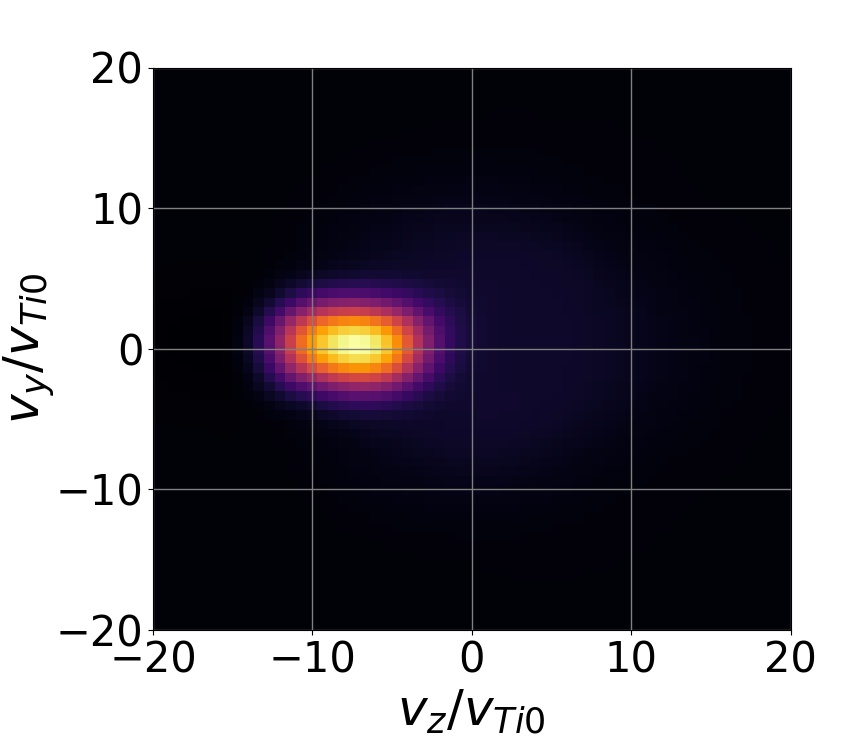
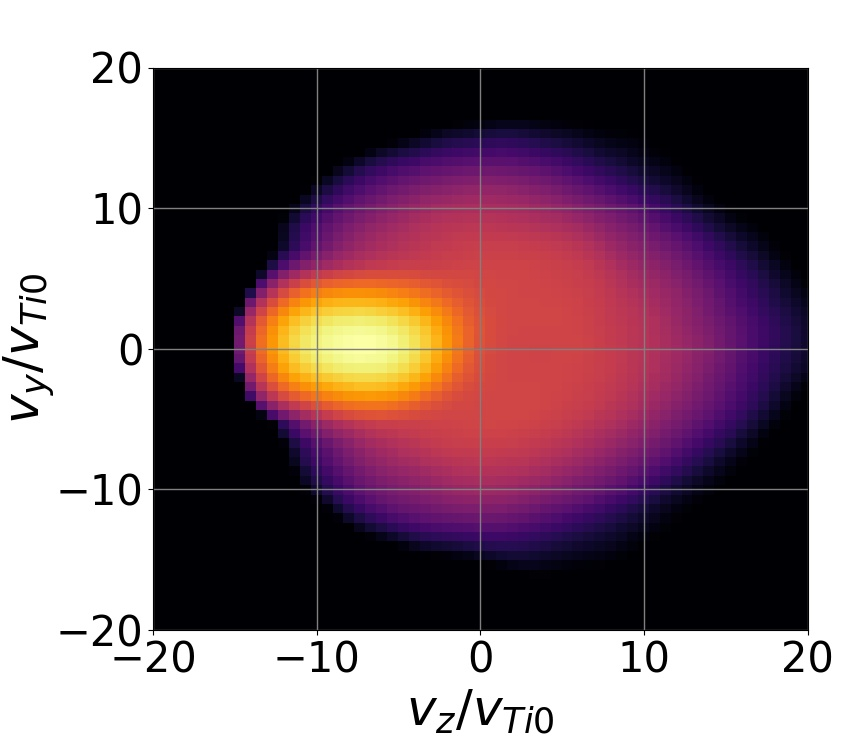
update

diff --git a/Diagnostics/local/2D_structure.py b/Diagnostics/local/2D_structure.py
@@ -10,6 +10,7 @@ from scipy.interpolate import interp1d
 from scipy.optimize import curve_fit
 from scipy.special import gamma
 import matplotlib.ticker as ticker
+import matplotlib.colors as colors
 matplotlib.use('TkAgg')
 
 ElcGridPath = './massRatio/mass100/E5_H2/dist_function_save/elc_velocities.npz'
@@ -77,11 +78,14 @@ def plot_2d_ion_distribution(fName, GridFile):
     vz_plot, vy_plot = np.meshgrid(velocities_z,velocities_y,indexing='ij')
     
     fig = plt.figure(figsize=(8.5,7.5),facecolor='w', edgecolor='k')
-    ax      = fig.add_axes([0.1, 0.16, 0.75, 0.75])
+    ax      = fig.add_axes([0.18, 0.16, 0.77, 0.75])
 
     #df[df<100] = 1.0
+    thresh = df.max()/500
+    df[df<thresh] = thresh
 
-    ax.pcolormesh(vz_plot/(0.02/np.sqrt(50*100)), vy_plot/(0.02/np.sqrt(50*100)), df,cmap='inferno')
+    ax.pcolormesh(vz_plot/(0.02/np.sqrt(50*100)), vy_plot/(0.02/np.sqrt(50*100)), df,cmap='inferno'
+                  ,norm=colors.LogNorm(vmin=thresh, vmax=df.max()))
     ax.set_xlabel(r'$v_z/v_{Ti0}$', fontsize=36)
     ax.set_ylabel(r'$v_y/v_{Ti0}$', fontsize=36, labelpad=-1)
     ax.set_xlim(-20,20)
@@ -159,18 +163,18 @@ def plot_phase_space_ion(fName,GridFile):
 def plot_phi(fName):
     phi = np.loadtxt(fName)
 
-    fig      = plt.figure(figsize=(10.5,7.5),facecolor='w', edgecolor='k')
-    ax      = fig.add_axes([0.16, 0.16, 0.75, 0.75])
+    fig      = plt.figure(figsize=(9.5,7.5),facecolor='w', edgecolor='k')
+    ax      = fig.add_axes([0.13, 0.16, 0.72, 0.75])
 
-    ax.set_xlabel(r'$z/\lambda_{De0}$',fontsize=36)
-    ax.set_ylabel(r'$y/\lambda_{De0}$',fontsize=36)
+    ax.set_xlabel(r'$z/\lambda_{De}$',fontsize=36)
+    ax.set_ylabel(r'$y/\lambda_{De}$',fontsize=36)
     ax.tick_params(labelsize = 32)
     #ax.grid()
     #ax.contourf(ZZ, YY, phi, 30,  zdir='z', cmap=matplotlib.cm.coolwarm)
     pos = ax.contourf(ZZ*50, YY*50, phi/0.0004, 30,  zdir='z', cmap='inferno')
     cbar = fig.colorbar(pos,ax=ax)
     cbar.set_label(r"$e\phi/T_{e0}$",fontsize=32)
-    cbar.ax.tick_params(labelsize=22)
+    cbar.ax.tick_params(labelsize=30)
     plt.show()
     #plt.savefig(r'./paper_figures/phi.jpg', bbox_inches='tight')
     plt.clf()
@@ -210,7 +214,7 @@ def plot_E(fName):
 if __name__ == '__main__':
     #plot_phase_space('./massRatio/mass100/E5_H2/dist_function/1000.0_elc_phase.txt', ElcGridPath)
 
-    #plot_phi('./massRatio/mass100/E5_H2/field/M100_E5_field_0100.txt')
+    #plot_phi('./massRatio/mass100/E5_H2/field/M100_E5_field_0180.txt')
     #plot_phase_space('./massRatio/mass100/E5_H2/dist_function/1800.0_elc_phase.txt', ElcGridPath)
     #plot_phase_space_ion('./massRatio/mass100/E5_H2/dist_function/1800.0_ion_phase.txt', IonGridPath)
     #plot_2d_elc_distribution('./massRatio/mass100/E5_H2/dist_function/1800.0_elc_2d.txt',ElcGridPath)
@@ -221,14 +225,14 @@ if __name__ == '__main__':
     #plot_phase_space('./massRatio/mass100/E5_H2/dist_function/1800.0_elc_phase.txt', ElcGridPath)
     #plot_phase_space_ion('./massRatio/mass100/E5_H2/dist_function/3500.0_ion_phase.txt', IonGridPath)
     #plot_2d_elc_distribution('./massRatio/mass100/E5_H2/dist_function/3200.0_elc_2d.txt',ElcGridPath)
-    #plot_2d_ion_distribution('./massRatio/mass100/E5_H2/dist_function/3700.0_ion_2d.txt',IonGridPath)
+    #plot_2d_ion_distribution('./massRatio/mass100/E5_H2/dist_function/3500.0_ion_2d.txt',IonGridPath)
 
     #plot_phi('./massRatio/mass100/E5_H2/field/M100_E5_field_0432.txt')
     #plot_phi('./Cori/mass25/rescheck/4/field/M25_E2_3_field_0430.txt')
     #plot_phase_space('./massRatio/mass100/E5_H2/dist_function/4300.0_elc_phase.txt', ElcGridPath)
     #plot_phase_space_ion('./massRatio/mass100/E5_H2/dist_function/4300.0_ion_phase.txt', IonGridPath)
     #plot_2d_elc_distribution('./massRatio/mass100/E5_H2/dist_function/4300.0_elc_2d.txt',ElcGridPath)
-    #plot_2d_ion_distribution('./massRatio/mass100/E5_H2/dist_function/4200.0_ion_2d.txt',IonGridPath)
+    plot_2d_ion_distribution('./massRatio/mass100/E5_H2/dist_function/4200.0_ion_2d.txt',IonGridPath)
 
     #plot_phase_space('./massRatio/mass100/E5_H2/dist_function/4000.0_elc_phase.txt', ElcGridPath)
     # phase_space_loop()
@@ -237,7 +241,7 @@ if __name__ == '__main__':
 
     #plot_E('./massRatio/mass25/E1/field/M25_E1_field_0120.txt')
     #plot_E('./Cori/mass25/rescheck/4/field/M25_E2_3_field_0120.txt')
-    plot_E('./massRatio/mass100/E5_H2/field/M100_E5_field_0095.txt')
+    #plot_E('./massRatio/mass100/E5_H2/field/M100_E5_field_0095.txt')
     #plot_phi('./massRatio/mass25/E1/field/M25_E1_field_0110.txt')
     #plot_phi('./Cori/mass25/rescheck/4/field/M25_E2_3_field_0120.txt')
-    plot_phi('./massRatio/mass100/E5_H2/field/M100_E5_field_0095.txt')
+    #plot_phi('./massRatio/mass100/E5_H2/field/M100_E5_field_0095.txt')
